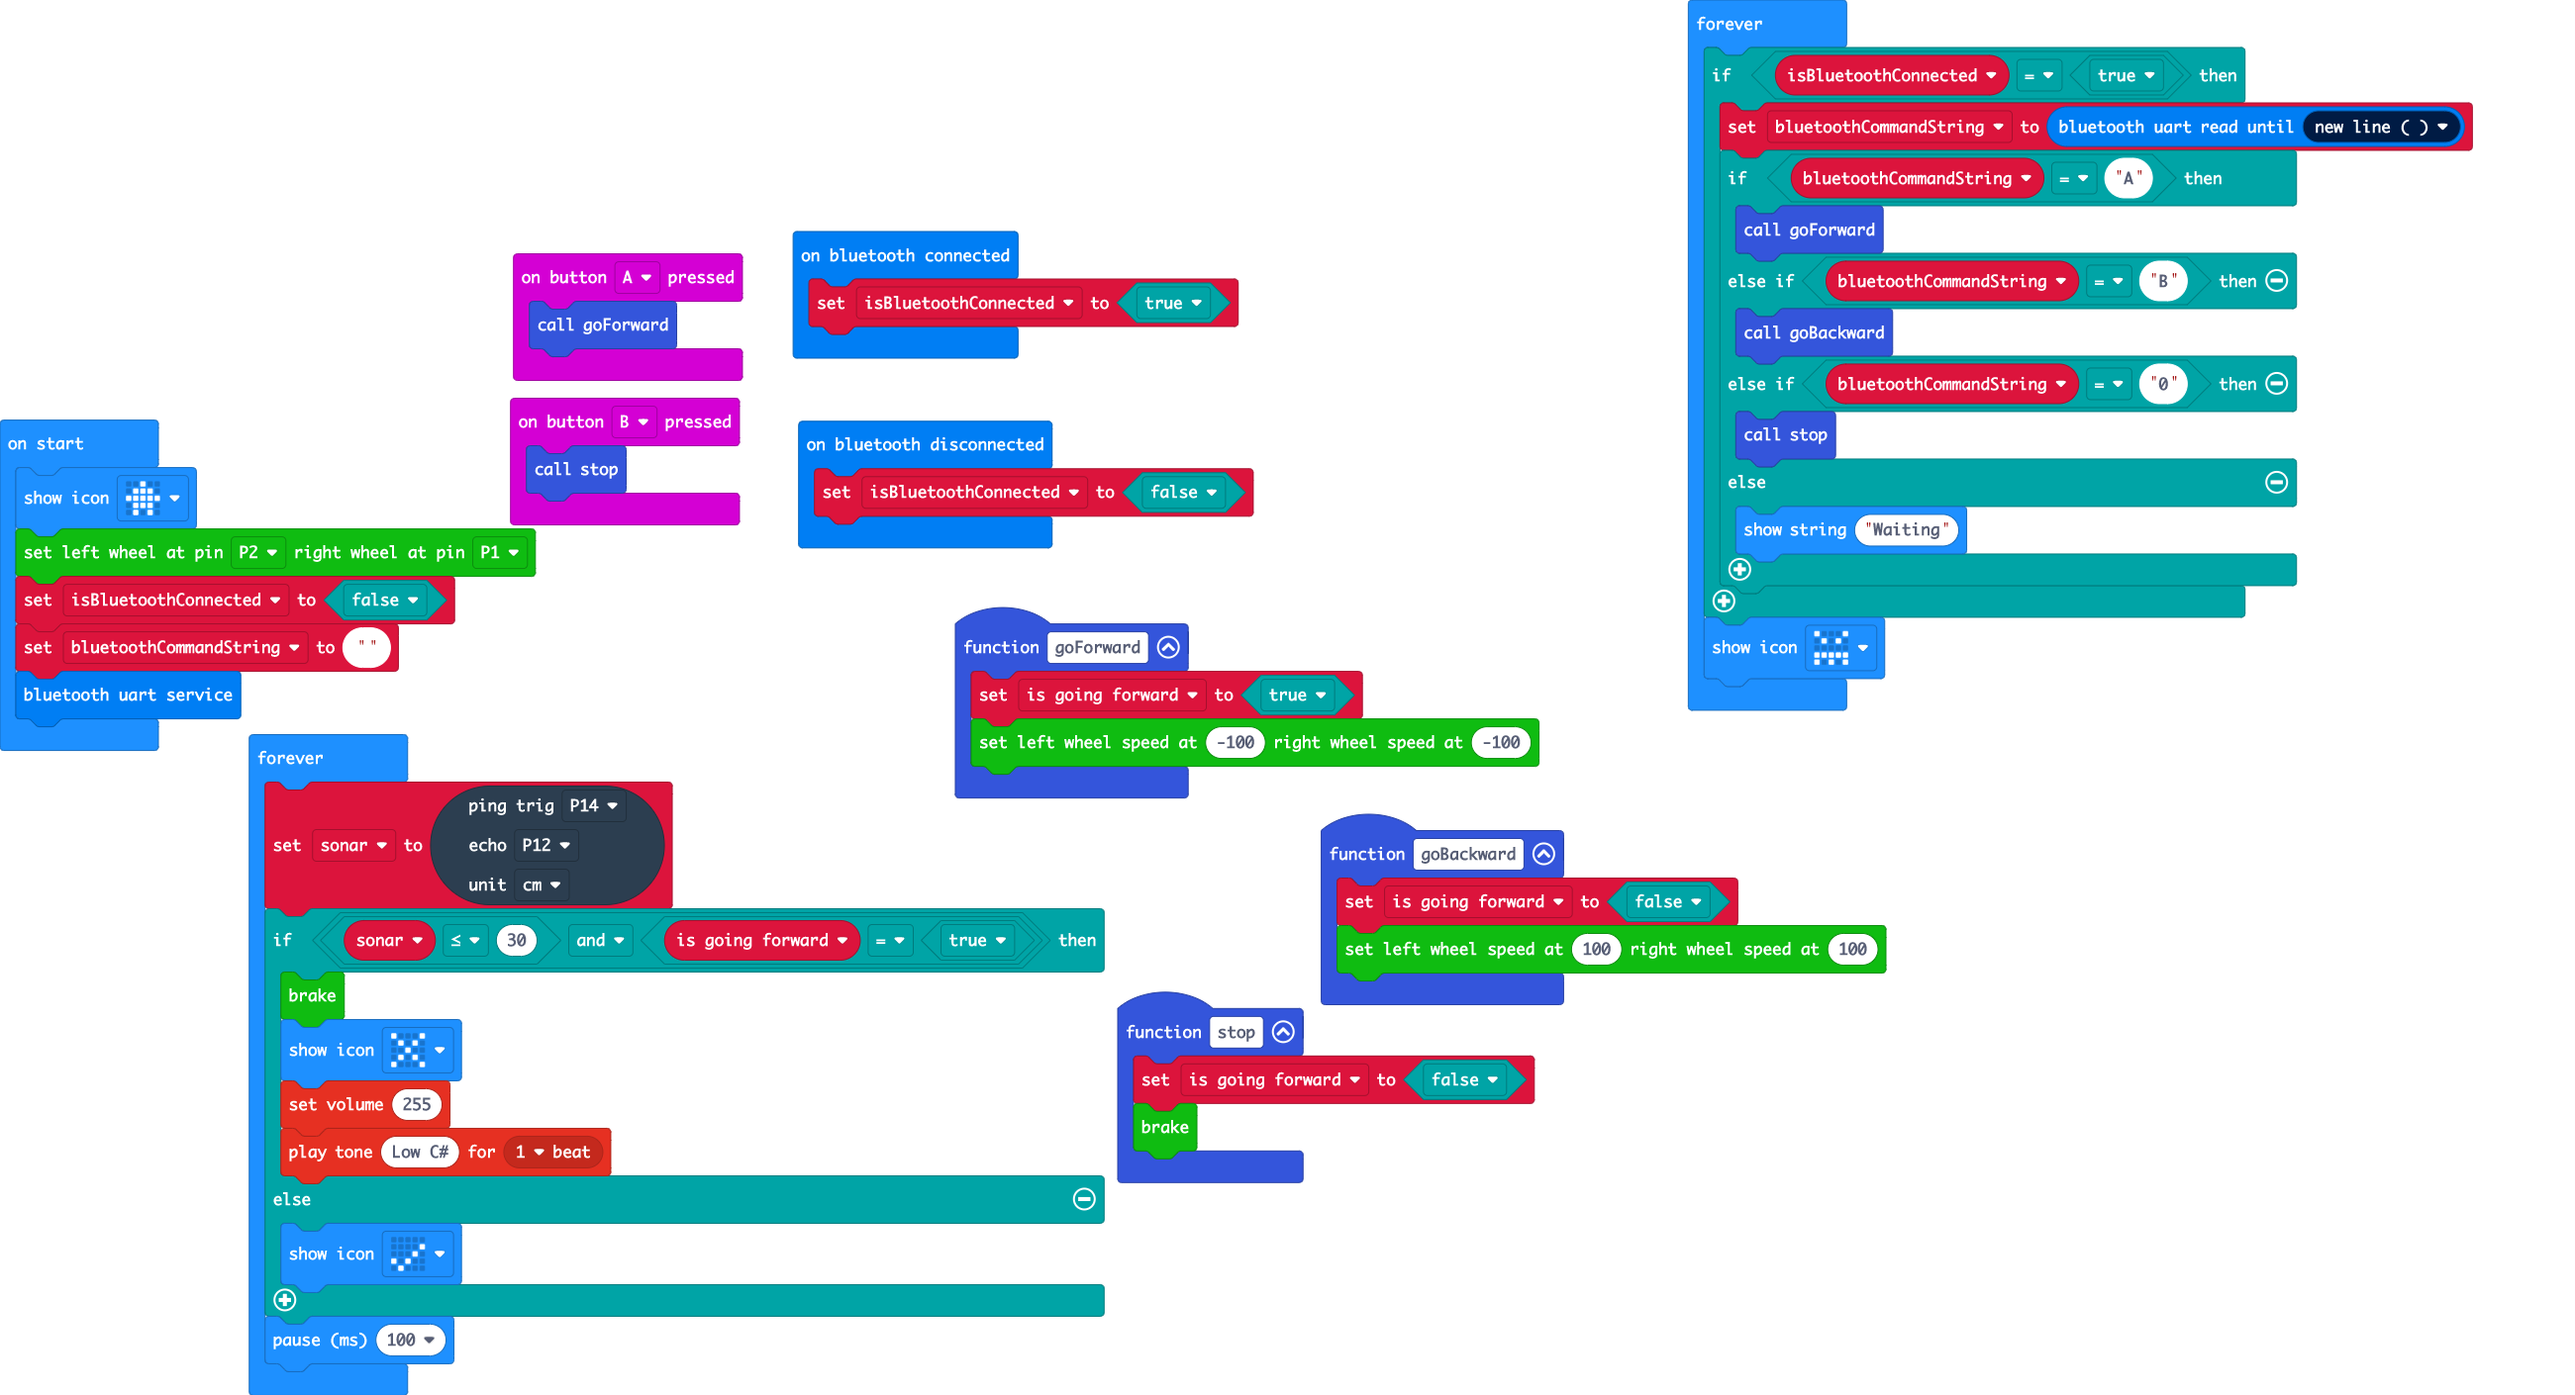
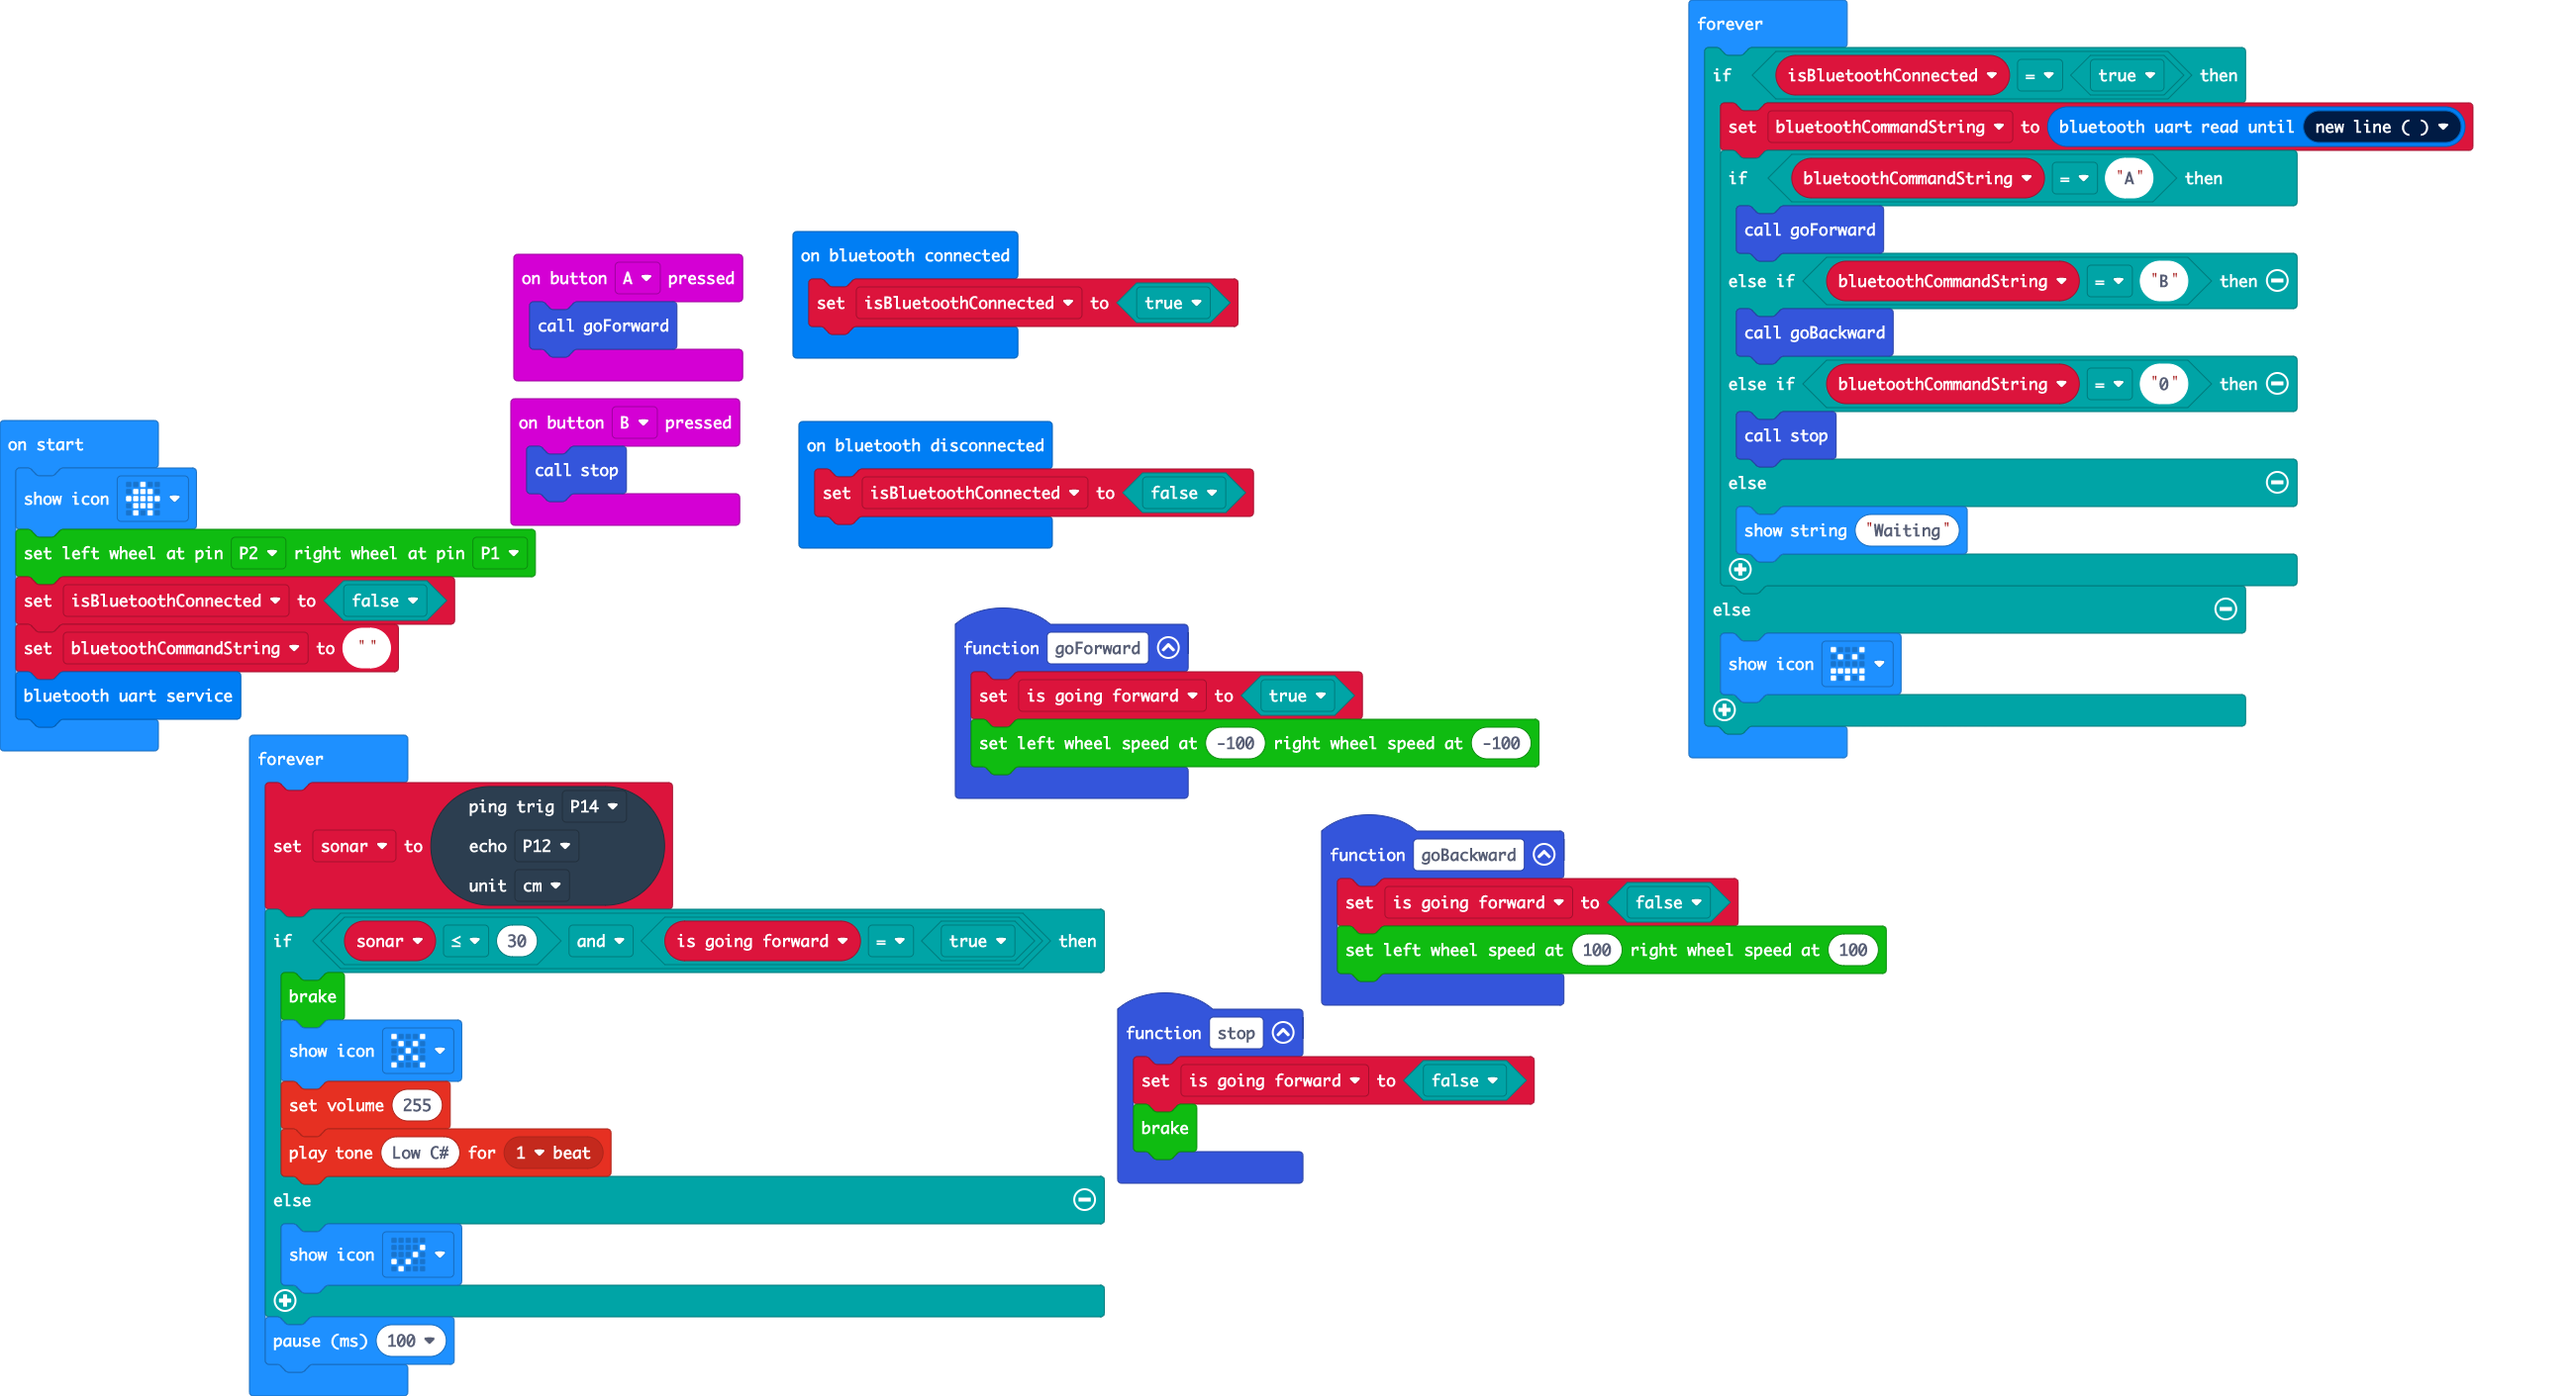
Update main.blocks, main.ts

diff --git a/main.ts b/main.ts
@@ -42,8 +42,9 @@ basic.forever(function () {
         } else {
             basic.showString("Waiting")
         }
+    } else {
+        basic.showIcon(IconNames.Angry)
     }
-    basic.showIcon(IconNames.Angry)
 })
 basic.forever(function () {
     sonar2 = sonar.ping(
